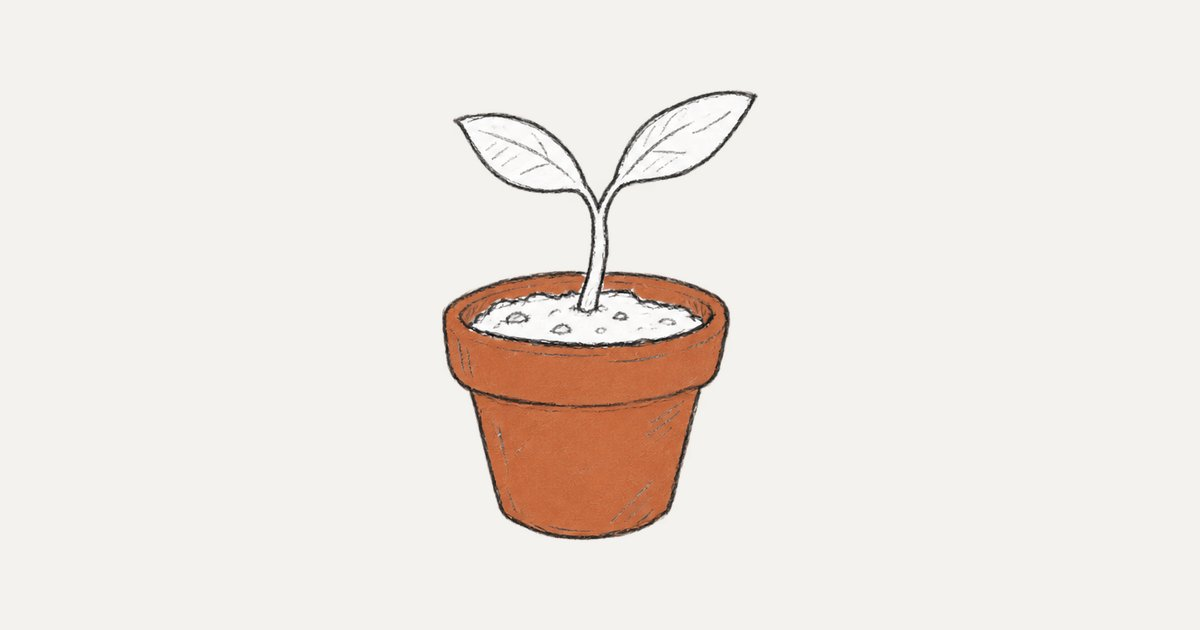
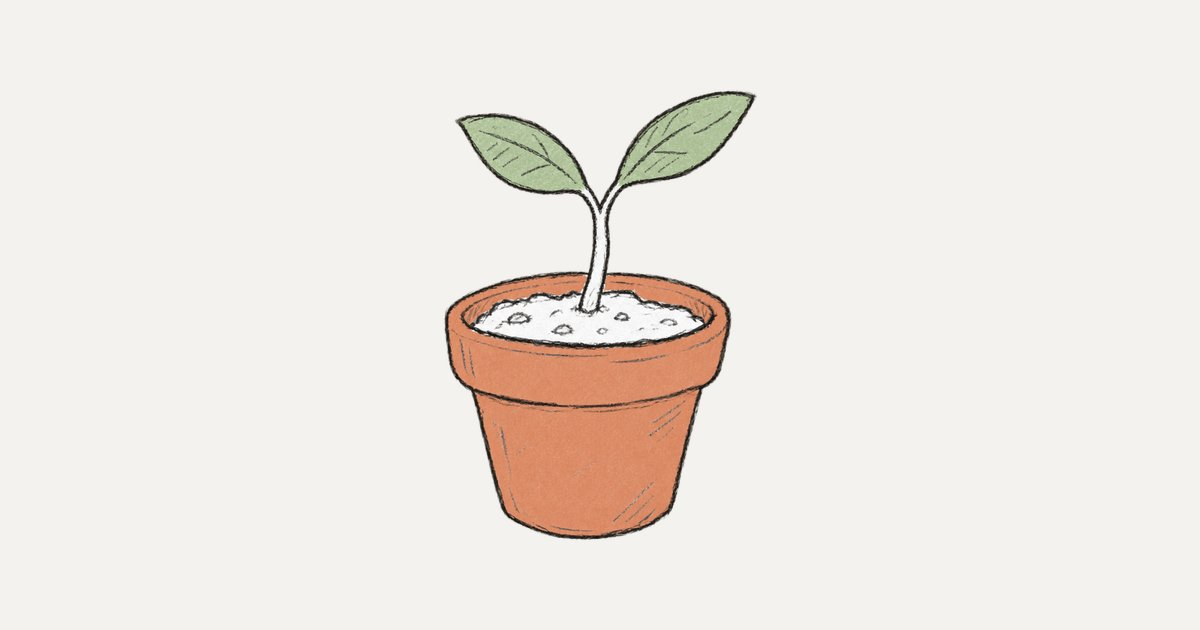
feat: give post covers a six-colour pastel palette
- Replace the single terracotta accent with six muted pastels in the style block
- Recolour all six covers in the palette, keeping each drawing
- Document the cover palette in DESIGN.md

Changed region(s): [[0.37, 0.1206, 0.6475, 0.8746]]

diff --git a/.claude/skills/illustrate-post/SKILL.md b/.claude/skills/illustrate-post/SKILL.md
@@ -8,8 +8,8 @@ description: Use when a blog post in this repo (kalinichenko.dev) needs a cover 
 ## Overview
 
 Every post has a hand-drawn cover: a loose pencil sketch of one metaphor
-object, white-filled, greyscale with one terracotta accent, on a transparent
-background. Codex generates three variants with its built-in `image_gen` tool,
+object, ink lines with flat white and pastel fills from a fixed palette, on a
+transparent background. Codex generates three variants with its built-in `image_gen` tool,
 `prepare.mjs` gates, normalizes and compresses them, and the author picks one.
 The rules for how covers are shown live in `DESIGN.md` (Illustrations).
 
@@ -60,8 +60,9 @@ bright halo. Look only at the `*.light.png` / `*.dark.png` / `sheet.png` files
    variant rejected for transparency is regenerated once and dropped if it
    fails again. A duplicate is regenerated.
 7. **Self-check by eye,** on `variant-N.light.png` and `variant-N.dark.png`:
-   every object white-filled, terracotta is the only chromatic accent and
-   covers one or two small elements, no text or letters, no logos or brand
+   every object filled (white or a palette pastel, never a hollow outline),
+   colors only from the palette and two or three of them, most of the drawing
+   still white, no saturated color, no text or letters, no logos or brand
    marks, no people, no glow or halo, nothing cut at the edges. A failure is a
    warning, not a gate: name it next to the variant.
 8. **Pick.** `open "$RUN/sheet.png"`, list each variant's metaphor and
@@ -111,16 +112,20 @@ Use the built-in image_gen tool to edit the attached image, which is the edit ta
 Style/medium: quick, loose hand-drawn sketch made with a digital pencil, like a
 page from a sketchbook. Few, light, confident ink lines with visible imperfect
 strokes. Almost no shading: at most a few soft grey hatching strokes in one or
-two places. Most of each object is left as untouched white paper. Every object
-is filled with flat white paper color, never a hollow outline. Simplify every
-shape and leave out small details; a quick study, not a rendering.
+two places. Every object is filled, with flat white paper color or a flat
+pastel wash from the palette, never a hollow outline. Simplify every shape and
+leave out small details; a quick study, not a rendering.
 Subject rules: concrete physical objects only. No people, no text, no letters,
 no logos or brand marks.
 Composition/framing: one compact object group, centered, nothing cut at the
 edges. No ground plane, no cast shadow, no glow or halo.
-Color palette: black ink and grey graphite on white only; terracotta #c25a34 is
-the only other color, on one or two small elements. No yellow, wood brown,
-blue or any other hue anywhere, even where the real object would have one.
+Color palette: black ink and grey graphite lines, plus soft muted pastel
+washes from this palette only: sage green #a8c49a, dusty blue #9fbcd4, butter
+yellow #f0d68a, blush pink #eab3a4, lavender #bcb2db, soft terracotta #dd8f6e.
+Use two or three of these colors, applied as flat, slightly uneven
+colored-pencil fills on the objects that would naturally carry them (a green
+leaf, a blue cup). Leave the rest as white paper. No saturated or bright
+colors, and no hue outside the palette.
 Constraints: genuinely transparent background (preserve the alpha channel),
 landscape 3:2 (1536x1024), no frame, no border, no watermark.
 ```

diff --git a/DESIGN.md b/DESIGN.md
@@ -265,18 +265,20 @@ new one-off styles.
 
 Every post has a cover illustration, made with the `illustrate-post` skill.
 
-- **Style:** a loose hand-drawn pencil sketch of one metaphor object.
-  Greyscale, every object filled with flat white, terracotta `#c25a34` as the
-  only chromatic accent on one or two small elements, transparent background.
-  No people, no text, no logos. The file is trimmed to its drawing with an
-  even margin, so every cover has its own proportions (a tall seedling, a
-  wide notebook).
-- **The accent is baked in.** A cover keeps `#c25a34` in both themes, next to
-  the dark theme's `#e07a52`. Covers are content, like a photo, not UI, so the
-  per-theme accent rule does not apply to them. The author compared the two
-  side by side and kept it.
-- **Shown as is in both themes.** The white fills read on the dark background
-  like paper cut-outs; no filter, no backing tile.
+- **Style:** a loose hand-drawn pencil sketch of one metaphor object: ink and
+  graphite lines, every object filled with flat white or a pastel wash,
+  transparent background. No people, no text, no logos. The file is trimmed to
+  its drawing with an even margin, so every cover has its own proportions (a
+  tall seedling, a wide notebook).
+- **A palette of their own.** Covers use two or three of six muted pastels on
+  the objects that would carry them: sage green `#a8c49a`, dusty blue
+  `#9fbcd4`, butter yellow `#f0d68a`, blush pink `#eab3a4`, lavender `#bcb2db`,
+  soft terracotta `#dd8f6e`. Covers are content, like a photo, not UI, so the
+  one-accent rule above does not apply to them. The saturated UI accent
+  `#c25a34` is not in the palette, only its pastel cousin, so a cover never
+  competes with a link.
+- **Shown as is in both themes.** The white and pastel fills read on the dark
+  background like paper cut-outs; no filter, no backing tile.
 - **Never cropped on site.** In a card the cover spans the card's width at its
   own height; elsewhere size the box in CSS and use `object-contain`. Never
   give a cover `<Image>` both `width` and `height`: sharp would crop it at
